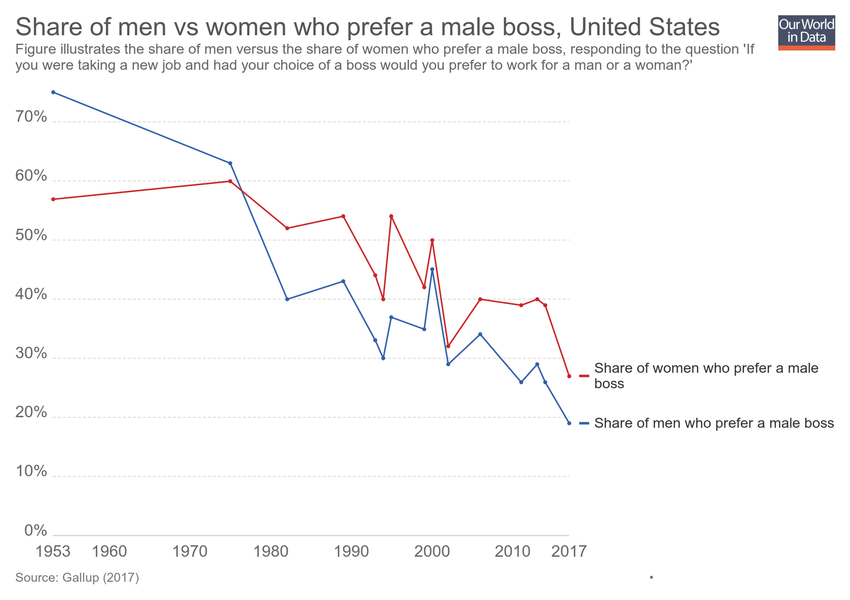
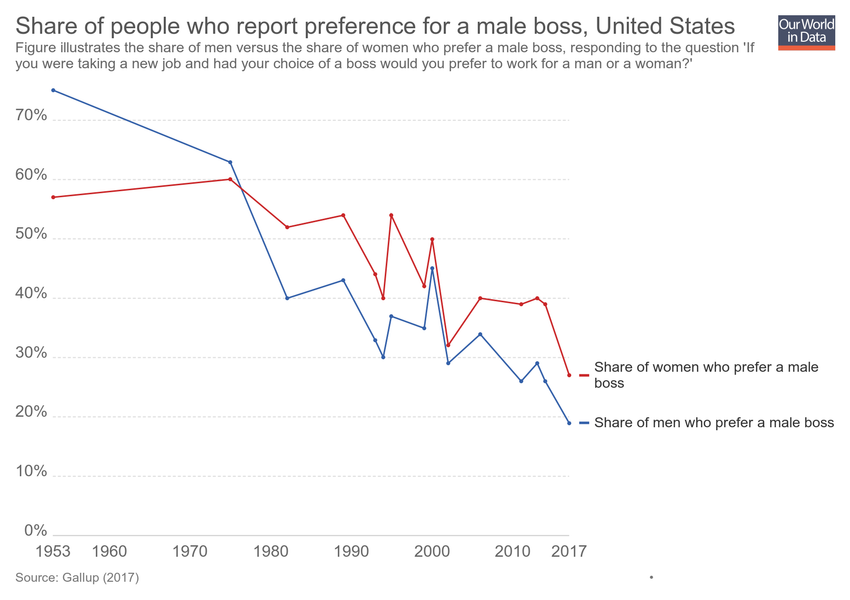
Updating chart share-of-men-vs-women-who-prefer-a-male-boss

diff --git a/grapher/share-of-men-vs-women-who-prefer-a-male-boss.html b/grapher/share-of-men-vs-women-who-prefer-a-male-boss.html
@@ -1,4 +1,4 @@
-<!doctype html><html><head><meta name="viewport" content="width=device-width, initial-scale=1" /><title>Share of men vs women who prefer a male boss - Our World in Data</title><meta name="description" content="Figure illustrates the share of men versus the share of women who prefer a male boss, responding to the question 'If you were taking a new job and had your choice of a boss would you prefer to work for a man or a woman?'" /><link rel="canonical" href="https://ourworldindata.org/grapher/share-of-men-vs-women-who-prefer-a-male-boss" /><meta property="fb:app_id" content="1149943818390250" /><meta property="og:url" content="https://ourworldindata.org/grapher/share-of-men-vs-women-who-prefer-a-male-boss" /><meta property="og:title" content="Share of men vs women who prefer a male boss" /><meta property="og:description" content="Figure illustrates the share of men versus the share of women who prefer a male boss, responding to the question 'If you were taking a new job and had your choice of a boss would you prefer to work for a man or a woman?'" /><meta property="og:image" content="https://ourworldindata.org/grapher/exports/share-of-men-vs-women-who-prefer-a-male-boss.png?v=1" /><meta property="og:image:width" content="850" /><meta property="og:image:height" content="600" /><meta property="og:site_name" content="Our World in Data" /><meta name="twitter:card" content="summary_large_image" /><meta name="twitter:site" content="@OurWorldInData" /><meta name="twitter:creator" content="@OurWorldInData" /><meta name="twitter:title" content="Share of men vs women who prefer a male boss" /><meta name="twitter:description" content="Figure illustrates the share of men versus the share of women who prefer a male boss, responding to the question 'If you were taking a new job and had your choice of a boss would you prefer to work for a man or a woman?'" /><meta name="twitter:image" content="https://ourworldindata.org/grapher/exports/share-of-men-vs-women-who-prefer-a-male-boss.png?v=1" /><style>
+<!doctype html><html><head><meta name="viewport" content="width=device-width, initial-scale=1" /><title>Share of people who report preference for a male boss - Our World in Data</title><meta name="description" content="Figure illustrates the share of men versus the share of women who prefer a male boss, responding to the question 'If you were taking a new job and had your choice of a boss would you prefer to work for a man or a woman?'" /><link rel="canonical" href="https://ourworldindata.org/grapher/share-of-men-vs-women-who-prefer-a-male-boss" /><meta property="fb:app_id" content="1149943818390250" /><meta property="og:url" content="https://ourworldindata.org/grapher/share-of-men-vs-women-who-prefer-a-male-boss" /><meta property="og:title" content="Share of people who report preference for a male boss" /><meta property="og:description" content="Figure illustrates the share of men versus the share of women who prefer a male boss, responding to the question 'If you were taking a new job and had your choice of a boss would you prefer to work for a man or a woman?'" /><meta property="og:image" content="https://ourworldindata.org/grapher/exports/share-of-men-vs-women-who-prefer-a-male-boss.png?v=2" /><meta property="og:image:width" content="850" /><meta property="og:image:height" content="600" /><meta property="og:site_name" content="Our World in Data" /><meta name="twitter:card" content="summary_large_image" /><meta name="twitter:site" content="@OurWorldInData" /><meta name="twitter:creator" content="@OurWorldInData" /><meta name="twitter:title" content="Share of people who report preference for a male boss" /><meta name="twitter:description" content="Figure illustrates the share of men versus the share of women who prefer a male boss, responding to the question 'If you were taking a new job and had your choice of a boss would you prefer to work for a man or a woman?'" /><meta name="twitter:image" content="https://ourworldindata.org/grapher/exports/share-of-men-vs-women-who-prefer-a-male-boss.png?v=2" /><style>
         html, body {
             height: 100%;
             margin: 0;
@@ -20,8 +20,8 @@
         }
     </style><noscript><style>
                     figure { display: none !important; }
-                </style></noscript><link rel="stylesheet" href="https://ourworldindata.org/grapher/assets/commons.bundle.019a92548339820130b6.css" /><link rel="preload" href="/grapher/data/variables/93869+93867.json?v=1" as="fetch" crossorigin /></head><body class="singleChart"><figure data-grapher-src="/grapher/share-of-men-vs-women-who-prefer-a-male-boss"></figure><noscript id="fallback"><img src="/grapher/exports/share-of-men-vs-women-who-prefer-a-male-boss.svg" /><p>Interactive visualization requires JavaScript</p></noscript><script src="https://cdn.polyfill.io/v2/polyfill.min.js?features=es6,fetch"></script><script src="https://ourworldindata.org/grapher/assets/commons.bundle.019a92548339820130b6.js"></script><script src="https://ourworldindata.org/grapher/assets/charts.bundle.dcf65b68eddaba4c6a58.js"></script><script>
-        var jsonConfig = {"map":{"projection":"World","colorSchemeLabels":[],"colorSchemeValues":[],"defaultProjection":"World","colorSchemeMinValue":0,"customNumericColors":[],"customCategoryColors":{},"customCategoryLabels":{},"customHiddenCategories":{}},"tab":"chart","slug":"share-of-men-vs-women-who-prefer-a-male-boss","type":"LineChart","title":"Share of men vs women who prefer a male boss","xAxis":{"scaleType":"linear"},"yAxis":{"min":0,"scaleType":"linear"},"version":1,"subtitle":"Figure illustrates the share of men versus the share of women who prefer a male boss, responding to the question 'If you were taking a new job and had your choice of a boss would you prefer to work for a man or a woman?'","hasMapTab":false,"stackMode":"absolute","dimensions":[{"display":{"name":"Share of men who prefer a male boss","unit":"%"},"property":"y","variableId":93869},{"display":{"name":"Share of women who prefer a male boss","unit":"%"},"property":"y","variableId":93867}],"isAutoSlug":true,"hasChartTab":true,"isPublished":true,"selectedData":[{"index":0,"entityId":13},{"index":1,"entityId":13}],"addCountryMode":"change-country","id":2419};
+                </style></noscript><link rel="stylesheet" href="https://ourworldindata.org/grapher/assets/commons.bundle.019a92548339820130b6.css" /><link rel="preload" href="/grapher/data/variables/93869+93867.json?v=2" as="fetch" crossorigin /></head><body class="singleChart"><figure data-grapher-src="/grapher/share-of-men-vs-women-who-prefer-a-male-boss"></figure><noscript id="fallback"><img src="/grapher/exports/share-of-men-vs-women-who-prefer-a-male-boss.svg" /><p>Interactive visualization requires JavaScript</p></noscript><script src="https://cdn.polyfill.io/v2/polyfill.min.js?features=es6,fetch"></script><script src="https://ourworldindata.org/grapher/assets/commons.bundle.019a92548339820130b6.js"></script><script src="https://ourworldindata.org/grapher/assets/charts.bundle.dcf65b68eddaba4c6a58.js"></script><script>
+        var jsonConfig = {"id":2419,"map":{"projection":"World","colorSchemeLabels":[],"colorSchemeValues":[],"colorSchemeMinValue":0,"customNumericColors":[],"customCategoryColors":{},"customCategoryLabels":{},"customHiddenCategories":{}},"tab":"chart","slug":"share-of-men-vs-women-who-prefer-a-male-boss","type":"LineChart","title":"Share of people who report preference for a male boss","xAxis":{"scaleType":"linear"},"yAxis":{"min":0,"scaleType":"linear"},"version":2,"subtitle":"Figure illustrates the share of men versus the share of women who prefer a male boss, responding to the question 'If you were taking a new job and had your choice of a boss would you prefer to work for a man or a woman?'","hasMapTab":false,"stackMode":"absolute","dimensions":[{"display":{"name":"Share of men who prefer a male boss","unit":"%"},"property":"y","variableId":93869},{"display":{"name":"Share of women who prefer a male boss","unit":"%"},"property":"y","variableId":93867}],"hasChartTab":true,"isPublished":true,"selectedData":[{"index":0,"entityId":13},{"index":1,"entityId":13}],"addCountryMode":"change-country"};
         var figure = document.getElementsByTagName("figure")[0];
         try {
             window.App = {};
